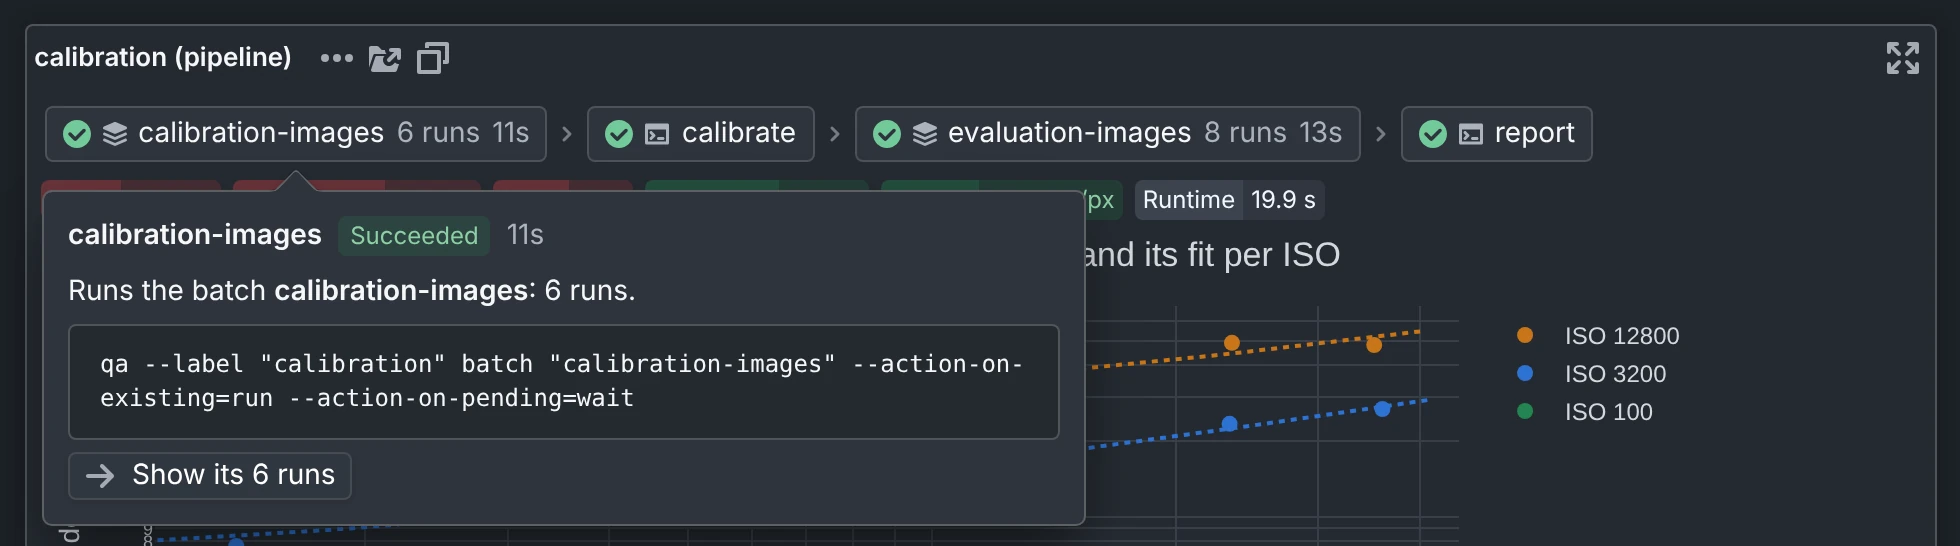
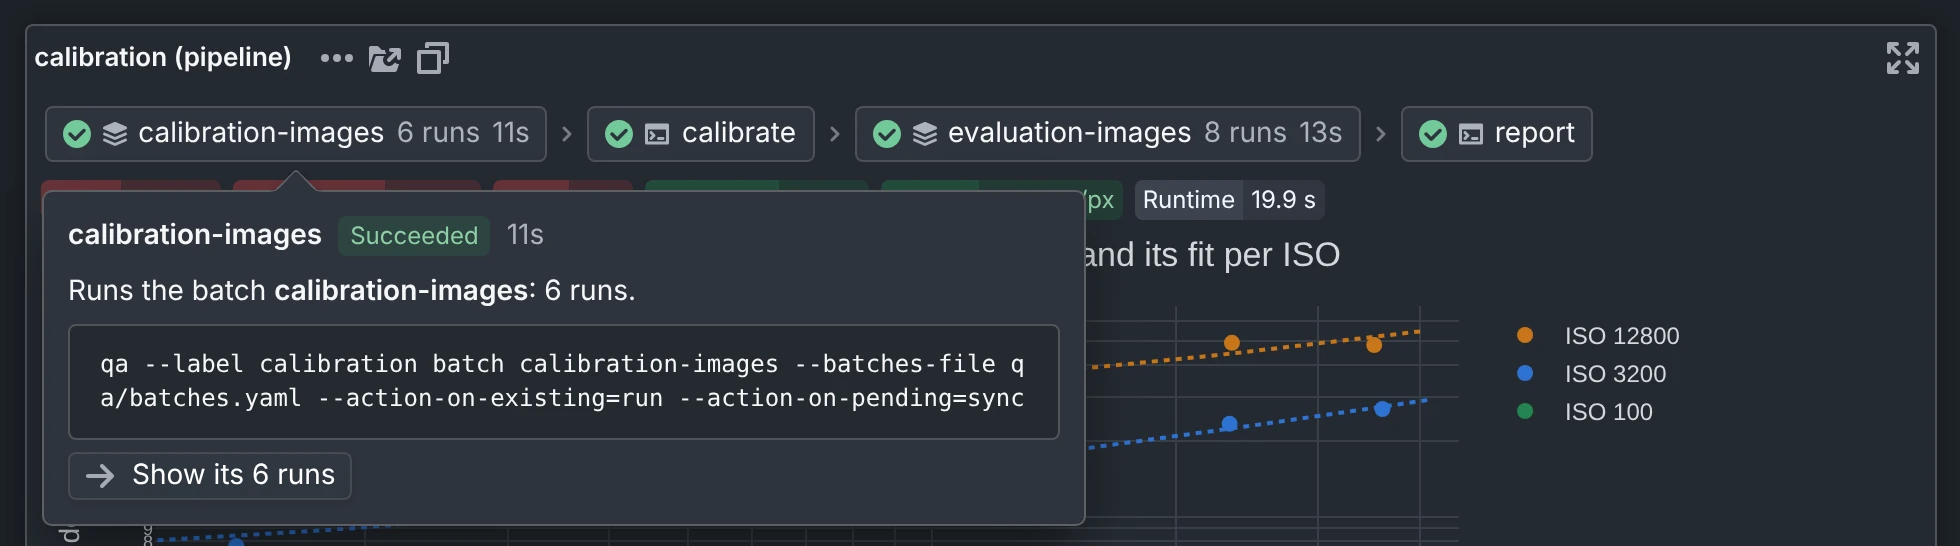
Pipelines docs: pictures retaken with the current web app
Claude-Session: https://claude.ai/code/session_01BDLPrXHKS8GrGaK3ciqchg

Changed region(s): [[0.0311, 0.7161, 0.5291, 0.7473], [0.1245, 0.6538, 0.5291, 0.685]]

diff --git a/webapp/e2e/standins/pipelines.standin.js b/webapp/e2e/standins/pipelines.standin.js
@@ -98,11 +98,11 @@ const scenario = state => {
   const done = (fields) => ({ status: 'success', ...fields });
   const pipeline_steps = [
     done({ name: 'calibration-images', type: 'batch', batches: ['calibration-images'], label: 'calibration', runs: 6, failed_runs: 0, cached_runs: 0, duration: d['calibration-images'] + 3.4, runs_file: 'steps/calibration-images/runs.json',
-      command: 'qa --label "calibration" batch "calibration-images" --action-on-existing=run --action-on-pending=wait' }),
+      command: 'qa --label calibration batch calibration-images --batches-file qa/batches.yaml --action-on-existing=run --action-on-pending=sync' }),
     done({ name: 'calibrate', type: 'run', returncode: 0, duration: d.calibrate,
       command: `python qa/calibrate.py ${calibration_dirs.join(' ')} --output ${pipeline_dir}/calibration.yaml` }),
     done({ name: 'evaluation-images', type: 'batch', batches: ['evaluation-images'], label: 'default', runs: 8, failed_runs: 0, cached_runs: 0, duration: d['evaluation-images'] + 3.6, runs_file: 'steps/evaluation-images/runs.json',
-      command: `qa --tuning '["${pipeline_dir}/calibration.yaml"]' batch "evaluation-images" --action-on-existing=run --action-on-pending=wait` }),
+      command: `qa --label default --tuning '["${pipeline_dir}/calibration.yaml"]' batch evaluation-images --batches-file qa/batches.yaml --action-on-existing=run --action-on-pending=sync` }),
     done({ name: 'report', type: 'run', returncode: 0, duration: 0.4,
       command: `python qa/report.py ${pipeline_dir}/steps/evaluation-images/runs.json ${pipeline_dir}` }),
   ];
